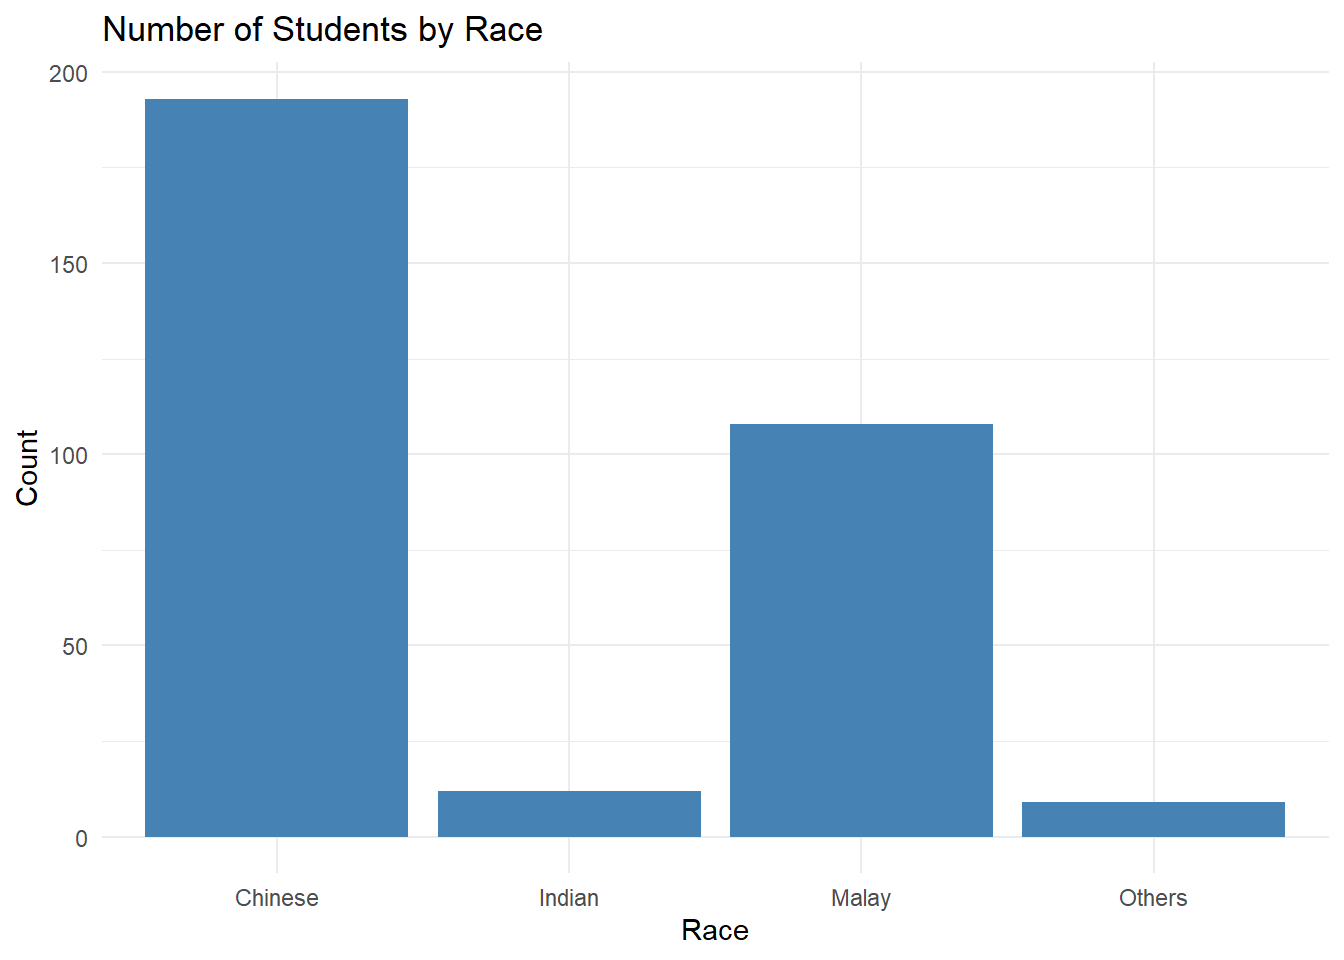
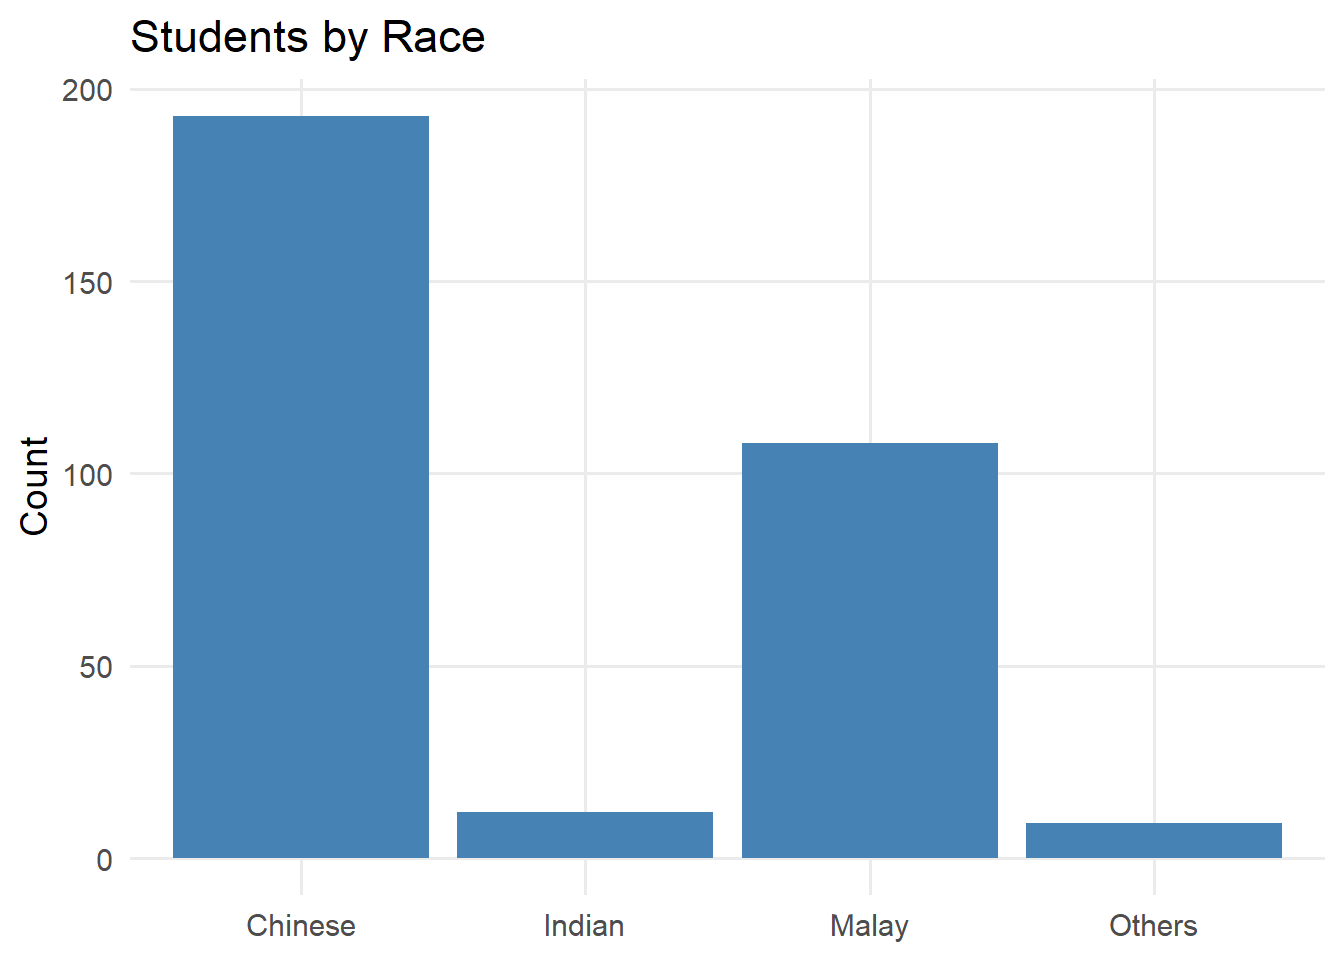
Commit ex1 update

diff --git a/_site/Hands-on_Ex/Hands-on_Ex01/Hands-on_Ex01.html b/_site/Hands-on_Ex/Hands-on_Ex01/Hands-on_Ex01.html
@@ -160,12 +160,9 @@ pre > code.sourceCode > span > a:first-child::before { text-decoration: underlin
     <h2 id="toc-title">On this page</h2>
    
   <ul>
-  <li><a href="#get-started" id="toc-get-started" class="nav-link active" data-scroll-target="#get-started">Get Started</a>
-  <ul class="collapse">
-  <li><a href="#install-and-load-required-r-packages" id="toc-install-and-load-required-r-packages" class="nav-link" data-scroll-target="#install-and-load-required-r-packages">Install and load required R packages</a></li>
-  </ul></li>
-  <li><a href="#import-the-data" id="toc-import-the-data" class="nav-link" data-scroll-target="#import-the-data">Import the data</a></li>
-  <li><a href="#plotting-a-simple-bar-chart" id="toc-plotting-a-simple-bar-chart" class="nav-link" data-scroll-target="#plotting-a-simple-bar-chart">Plotting a simple bar chart</a></li>
+  <li><a href="#get-started" id="toc-get-started" class="nav-link active" data-scroll-target="#get-started">Get Started</a></li>
+  <li><a href="#import-data" id="toc-import-data" class="nav-link" data-scroll-target="#import-data">Import Data</a></li>
+  <li><a href="#visualizations" id="toc-visualizations" class="nav-link" data-scroll-target="#visualizations">Visualizations</a></li>
   </ul>
 </nav>
     </div>
@@ -197,20 +194,25 @@ pre > code.sourceCode > span > a:first-child::before { text-decoration: underlin
 </header>
 
 
+<style>
+.plot-card {
+  background: #fff;
+  border-radius: 8px;
+  box-shadow: 0 2px 5px rgba(0,0,0,0.1);
+  padding: 1rem;
+  margin-bottom: 2rem;
+}
+</style>
 <section id="get-started" class="level2">
 <h2 class="anchored" data-anchor-id="get-started">Get Started</h2>
-<section id="install-and-load-required-r-packages" class="level3">
-<h3 class="anchored" data-anchor-id="install-and-load-required-r-packages">Install and load required R packages</h3>
-<p>We use <code>library(tidyverse)</code> to load the collection of tidyverse packages, which includes <code>readr</code>, <code>ggplot2</code>, and others.</p>
+<p>Install and load required packages:</p>
 <div class="cell">
-<div class="sourceCode cell-code" id="cb1"><pre class="sourceCode r code-with-copy"><code class="sourceCode r"><span id="cb1-1"><a href="#cb1-1" aria-hidden="true" tabindex="-1"></a>pacman<span class="sc">::</span><span class="fu">p_load</span>(tidyverse)</span></code><button title="Copy to Clipboard" class="code-copy-button"><i class="bi"></i></button></pre></div>
+<div class="sourceCode cell-code" id="cb1"><pre class="sourceCode r code-with-copy"><code class="sourceCode r"><span id="cb1-1"><a href="#cb1-1" aria-hidden="true" tabindex="-1"></a>pacman<span class="sc">::</span><span class="fu">p_load</span>(tidyverse, RColorBrewer)</span></code><button title="Copy to Clipboard" class="code-copy-button"><i class="bi"></i></button></pre></div>
 </div>
 <hr>
 </section>
-</section>
-<section id="import-the-data" class="level2">
-<h2 class="anchored" data-anchor-id="import-the-data">Import the data</h2>
-<p>We read the CSV file containing exam data Make sure the file is located in the <code>data/</code> folder.</p>
+<section id="import-data" class="level2">
+<h2 class="anchored" data-anchor-id="import-data">Import Data</h2>
 <div class="cell">
 <div class="sourceCode cell-code" id="cb2"><pre class="sourceCode r code-with-copy"><code class="sourceCode r"><span id="cb2-1"><a href="#cb2-1" aria-hidden="true" tabindex="-1"></a>exam_data <span class="ot">&lt;-</span> <span class="fu">read_csv</span>(<span class="st">"data/Exam_data.csv"</span>)</span></code><button title="Copy to Clipboard" class="code-copy-button"><i class="bi"></i></button></pre></div>
 <div class="cell-output cell-output-stderr">
@@ -236,16 +238,19 @@ i Specify the column types or set `show_col_types = FALSE` to quiet this message
 </div>
 <hr>
 </section>
-<section id="plotting-a-simple-bar-chart" class="level2">
-<h2 class="anchored" data-anchor-id="plotting-a-simple-bar-chart">Plotting a simple bar chart</h2>
-<p>We plot the distribution of the <code>RACE</code> variable using <code>ggplot2</code>.</p>
+<section id="visualizations" class="level2">
+<h2 class="anchored" data-anchor-id="visualizations">Visualizations</h2>
+<p>Below are all the key plots for the exam dataset, each wrapped in a styled card and arranged responsively.</p>
+<div class="columns">
+<div class="column" style="width:50%;">
+<div class="plot-card">
+<p><strong>Bar Chart: Students by Race</strong></p>
 <div class="cell">
-<div class="sourceCode cell-code" id="cb6"><pre class="sourceCode r code-with-copy"><code class="sourceCode r"><span id="cb6-1"><a href="#cb6-1" aria-hidden="true" tabindex="-1"></a><span class="fu">ggplot</span>(<span class="at">data =</span> exam_data, <span class="fu">aes</span>(<span class="at">x =</span> RACE)) <span class="sc">+</span></span>
+<div class="sourceCode cell-code" id="cb6"><pre class="sourceCode r code-with-copy"><code class="sourceCode r"><span id="cb6-1"><a href="#cb6-1" aria-hidden="true" tabindex="-1"></a><span class="fu">ggplot</span>(exam_data, <span class="fu">aes</span>(<span class="at">x =</span> RACE)) <span class="sc">+</span></span>
 <span id="cb6-2"><a href="#cb6-2" aria-hidden="true" tabindex="-1"></a>  <span class="fu">geom_bar</span>(<span class="at">fill =</span> <span class="st">"steelblue"</span>) <span class="sc">+</span></span>
-<span id="cb6-3"><a href="#cb6-3" aria-hidden="true" tabindex="-1"></a>  <span class="fu">theme_minimal</span>() <span class="sc">+</span></span>
-<span id="cb6-4"><a href="#cb6-4" aria-hidden="true" tabindex="-1"></a>  <span class="fu">labs</span>(<span class="at">title =</span> <span class="st">"Number of Students by Race"</span>,</span>
-<span id="cb6-5"><a href="#cb6-5" aria-hidden="true" tabindex="-1"></a>       <span class="at">x =</span> <span class="st">"Race"</span>,</span>
-<span id="cb6-6"><a href="#cb6-6" aria-hidden="true" tabindex="-1"></a>       <span class="at">y =</span> <span class="st">"Count"</span>)</span></code><button title="Copy to Clipboard" class="code-copy-button"><i class="bi"></i></button></pre></div>
+<span id="cb6-3"><a href="#cb6-3" aria-hidden="true" tabindex="-1"></a>  <span class="fu">theme_minimal</span>(<span class="at">base_size =</span> <span class="dv">14</span>) <span class="sc">+</span></span>
+<span id="cb6-4"><a href="#cb6-4" aria-hidden="true" tabindex="-1"></a>  <span class="fu">labs</span>(<span class="at">title =</span> <span class="st">"Students by Race"</span>, <span class="at">x =</span> <span class="cn">NULL</span>, <span class="at">y =</span> <span class="st">"Count"</span>) <span class="sc">+</span></span>
+<span id="cb6-5"><a href="#cb6-5" aria-hidden="true" tabindex="-1"></a>  <span class="fu">theme</span>(<span class="at">panel.grid.minor =</span> <span class="fu">element_blank</span>())</span></code><button title="Copy to Clipboard" class="code-copy-button"><i class="bi"></i></button></pre></div>
 <div class="cell-output-display">
 <div>
 <figure class="figure">
@@ -254,6 +259,111 @@ i Specify the column types or set `show_col_types = FALSE` to quiet this message
 </div>
 </div>
 </div>
+</div>
+</div><div class="column" style="width:50%;">
+<div class="plot-card">
+<p><strong>Score Distributions by Subject</strong></p>
+<div class="cell">
+<div class="sourceCode cell-code" id="cb7"><pre class="sourceCode r code-with-copy"><code class="sourceCode r"><span id="cb7-1"><a href="#cb7-1" aria-hidden="true" tabindex="-1"></a><span class="co"># Reshape to long format for faceted histograms</span></span>
+<span id="cb7-2"><a href="#cb7-2" aria-hidden="true" tabindex="-1"></a>exam_long <span class="ot">&lt;-</span> exam_data <span class="sc">%&gt;%</span></span>
+<span id="cb7-3"><a href="#cb7-3" aria-hidden="true" tabindex="-1"></a>  <span class="fu">pivot_longer</span>(<span class="at">cols =</span> <span class="fu">c</span>(ENGLISH, MATHS, SCIENCE), <span class="at">names_to =</span> <span class="st">"Subject"</span>, <span class="at">values_to =</span> <span class="st">"Score"</span>)</span>
+<span id="cb7-4"><a href="#cb7-4" aria-hidden="true" tabindex="-1"></a></span>
+<span id="cb7-5"><a href="#cb7-5" aria-hidden="true" tabindex="-1"></a><span class="fu">ggplot</span>(exam_long, <span class="fu">aes</span>(<span class="at">x =</span> Score, <span class="at">fill =</span> Subject)) <span class="sc">+</span></span>
+<span id="cb7-6"><a href="#cb7-6" aria-hidden="true" tabindex="-1"></a>  <span class="fu">geom_histogram</span>(<span class="at">bins =</span> <span class="dv">20</span>, <span class="at">color =</span> <span class="st">"white"</span>, <span class="at">alpha =</span> <span class="fl">0.7</span>) <span class="sc">+</span></span>
+<span id="cb7-7"><a href="#cb7-7" aria-hidden="true" tabindex="-1"></a>  <span class="fu">facet_wrap</span>(<span class="sc">~</span> Subject, <span class="at">scales =</span> <span class="st">"free"</span>) <span class="sc">+</span></span>
+<span id="cb7-8"><a href="#cb7-8" aria-hidden="true" tabindex="-1"></a>  <span class="fu">theme_minimal</span>(<span class="at">base_size =</span> <span class="dv">14</span>) <span class="sc">+</span></span>
+<span id="cb7-9"><a href="#cb7-9" aria-hidden="true" tabindex="-1"></a>  <span class="fu">labs</span>(<span class="at">title =</span> <span class="st">"Score Distributions by Subject"</span>, <span class="at">x =</span> <span class="st">"Score"</span>, <span class="at">y =</span> <span class="st">"Frequency"</span>) <span class="sc">+</span></span>
+<span id="cb7-10"><a href="#cb7-10" aria-hidden="true" tabindex="-1"></a>  <span class="fu">theme</span>(<span class="at">legend.position =</span> <span class="st">"none"</span>, <span class="at">panel.grid.minor =</span> <span class="fu">element_blank</span>())</span></code><button title="Copy to Clipboard" class="code-copy-button"><i class="bi"></i></button></pre></div>
+<div class="cell-output-display">
+<div>
+<figure class="figure">
+<p><img src="Hands-on_Ex01_files/figure-html/unnamed-chunk-8-1.png" class="img-fluid figure-img" width="672"></p>
+</figure>
+</div>
+</div>
+</div>
+</div>
+</div>
+</div>
+<div class="columns">
+<div class="column" style="width:50%;">
+<div class="plot-card">
+<p><strong>Scatterplot: Maths vs Science by Gender</strong></p>
+<div class="cell">
+<div class="sourceCode cell-code" id="cb8"><pre class="sourceCode r code-with-copy"><code class="sourceCode r"><span id="cb8-1"><a href="#cb8-1" aria-hidden="true" tabindex="-1"></a><span class="fu">ggplot</span>(exam_data, <span class="fu">aes</span>(<span class="at">x =</span> MATHS, <span class="at">y =</span> SCIENCE, <span class="at">color =</span> GENDER)) <span class="sc">+</span></span>
+<span id="cb8-2"><a href="#cb8-2" aria-hidden="true" tabindex="-1"></a>  <span class="fu">geom_point</span>(<span class="at">alpha =</span> <span class="fl">0.8</span>, <span class="at">size =</span> <span class="dv">2</span>) <span class="sc">+</span></span>
+<span id="cb8-3"><a href="#cb8-3" aria-hidden="true" tabindex="-1"></a>  <span class="fu">geom_smooth</span>(<span class="at">method =</span> <span class="st">"lm"</span>, <span class="at">se =</span> <span class="cn">TRUE</span>, <span class="at">linetype =</span> <span class="st">"dashed"</span>) <span class="sc">+</span></span>
+<span id="cb8-4"><a href="#cb8-4" aria-hidden="true" tabindex="-1"></a>  <span class="fu">scale_color_brewer</span>(<span class="at">palette =</span> <span class="st">"Set1"</span>) <span class="sc">+</span></span>
+<span id="cb8-5"><a href="#cb8-5" aria-hidden="true" tabindex="-1"></a>  <span class="fu">theme_minimal</span>(<span class="at">base_size =</span> <span class="dv">14</span>) <span class="sc">+</span></span>
+<span id="cb8-6"><a href="#cb8-6" aria-hidden="true" tabindex="-1"></a>  <span class="fu">labs</span>(</span>
+<span id="cb8-7"><a href="#cb8-7" aria-hidden="true" tabindex="-1"></a>    <span class="at">title =</span> <span class="st">"Maths vs Science Scores by Gender"</span>,</span>
+<span id="cb8-8"><a href="#cb8-8" aria-hidden="true" tabindex="-1"></a>    <span class="at">subtitle =</span> <span class="st">"Scatterplot with linear trend lines"</span>,</span>
+<span id="cb8-9"><a href="#cb8-9" aria-hidden="true" tabindex="-1"></a>    <span class="at">x =</span> <span class="st">"Maths Score"</span>,</span>
+<span id="cb8-10"><a href="#cb8-10" aria-hidden="true" tabindex="-1"></a>    <span class="at">y =</span> <span class="st">"Science Score"</span></span>
+<span id="cb8-11"><a href="#cb8-11" aria-hidden="true" tabindex="-1"></a>  ) <span class="sc">+</span></span>
+<span id="cb8-12"><a href="#cb8-12" aria-hidden="true" tabindex="-1"></a>  <span class="fu">theme</span>(<span class="at">legend.position =</span> <span class="st">"bottom"</span>, <span class="at">panel.grid.minor =</span> <span class="fu">element_blank</span>())</span></code><button title="Copy to Clipboard" class="code-copy-button"><i class="bi"></i></button></pre></div>
+<div class="cell-output cell-output-stderr">
+<pre><code>`geom_smooth()` using formula 'y ~ x'</code></pre>
+</div>
+<div class="cell-output-display">
+<div>
+<figure class="figure">
+<p><img src="Hands-on_Ex01_files/figure-html/unnamed-chunk-10-1.png" class="img-fluid figure-img" width="672"></p>
+</figure>
+</div>
+</div>
+</div>
+</div>
+</div><div class="column" style="width:50%;">
+<div class="plot-card">
+<p><strong>Boxplot: Maths Scores by Race</strong></p>
+<div class="cell">
+<div class="sourceCode cell-code" id="cb10"><pre class="sourceCode r code-with-copy"><code class="sourceCode r"><span id="cb10-1"><a href="#cb10-1" aria-hidden="true" tabindex="-1"></a><span class="fu">ggplot</span>(exam_data, <span class="fu">aes</span>(<span class="at">x =</span> RACE, <span class="at">y =</span> MATHS, <span class="at">fill =</span> RACE)) <span class="sc">+</span></span>
+<span id="cb10-2"><a href="#cb10-2" aria-hidden="true" tabindex="-1"></a>  <span class="fu">geom_boxplot</span>(<span class="at">outlier.shape =</span> <span class="cn">NA</span>, <span class="at">alpha =</span> <span class="fl">0.6</span>) <span class="sc">+</span></span>
+<span id="cb10-3"><a href="#cb10-3" aria-hidden="true" tabindex="-1"></a>  <span class="fu">geom_jitter</span>(<span class="at">width =</span> <span class="fl">0.2</span>, <span class="at">alpha =</span> <span class="fl">0.5</span>, <span class="at">size =</span> <span class="dv">1</span>) <span class="sc">+</span></span>
+<span id="cb10-4"><a href="#cb10-4" aria-hidden="true" tabindex="-1"></a>  <span class="fu">scale_fill_brewer</span>(<span class="at">palette =</span> <span class="st">"Pastel2"</span>) <span class="sc">+</span></span>
+<span id="cb10-5"><a href="#cb10-5" aria-hidden="true" tabindex="-1"></a>  <span class="fu">theme_minimal</span>(<span class="at">base_size =</span> <span class="dv">14</span>) <span class="sc">+</span></span>
+<span id="cb10-6"><a href="#cb10-6" aria-hidden="true" tabindex="-1"></a>  <span class="fu">labs</span>(</span>
+<span id="cb10-7"><a href="#cb10-7" aria-hidden="true" tabindex="-1"></a>    <span class="at">title =</span> <span class="st">"Maths Scores by Race"</span>,</span>
+<span id="cb10-8"><a href="#cb10-8" aria-hidden="true" tabindex="-1"></a>    <span class="at">subtitle =</span> <span class="st">"Boxplot with overlaid points"</span>,</span>
+<span id="cb10-9"><a href="#cb10-9" aria-hidden="true" tabindex="-1"></a>    <span class="at">x =</span> <span class="cn">NULL</span>,</span>
+<span id="cb10-10"><a href="#cb10-10" aria-hidden="true" tabindex="-1"></a>    <span class="at">y =</span> <span class="st">"Maths Score"</span></span>
+<span id="cb10-11"><a href="#cb10-11" aria-hidden="true" tabindex="-1"></a>  ) <span class="sc">+</span></span>
+<span id="cb10-12"><a href="#cb10-12" aria-hidden="true" tabindex="-1"></a>  <span class="fu">theme</span>(<span class="at">axis.text.x =</span> <span class="fu">element_text</span>(<span class="at">angle =</span> <span class="dv">45</span>, <span class="at">hjust =</span> <span class="dv">1</span>), <span class="at">legend.position =</span> <span class="st">"none"</span>)</span></code><button title="Copy to Clipboard" class="code-copy-button"><i class="bi"></i></button></pre></div>
+<div class="cell-output-display">
+<div>
+<figure class="figure">
+<p><img src="Hands-on_Ex01_files/figure-html/unnamed-chunk-12-1.png" class="img-fluid figure-img" width="672"></p>
+</figure>
+</div>
+</div>
+</div>
+</div>
+</div>
+</div>
+<div class="columns">
+<div class="column" style="width:50%;">
+<div class="plot-card">
+<p><strong>Density Plot: Science Scores</strong></p>
+<div class="cell">
+<div class="sourceCode cell-code" id="cb11"><pre class="sourceCode r code-with-copy"><code class="sourceCode r"><span id="cb11-1"><a href="#cb11-1" aria-hidden="true" tabindex="-1"></a><span class="fu">ggplot</span>(exam_data, <span class="fu">aes</span>(<span class="at">x =</span> SCIENCE)) <span class="sc">+</span></span>
+<span id="cb11-2"><a href="#cb11-2" aria-hidden="true" tabindex="-1"></a>  <span class="fu">geom_density</span>(<span class="at">fill =</span> <span class="st">"orchid"</span>, <span class="at">alpha =</span> <span class="fl">0.6</span>) <span class="sc">+</span></span>
+<span id="cb11-3"><a href="#cb11-3" aria-hidden="true" tabindex="-1"></a>  <span class="fu">theme_minimal</span>(<span class="at">base_size =</span> <span class="dv">14</span>) <span class="sc">+</span></span>
+<span id="cb11-4"><a href="#cb11-4" aria-hidden="true" tabindex="-1"></a>  <span class="fu">labs</span>(<span class="at">title =</span> <span class="st">"Science Score Density"</span>, <span class="at">x =</span> <span class="st">"Science Score"</span>, <span class="at">y =</span> <span class="st">"Density"</span>) <span class="sc">+</span></span>
+<span id="cb11-5"><a href="#cb11-5" aria-hidden="true" tabindex="-1"></a>  <span class="fu">theme</span>(<span class="at">panel.grid.minor =</span> <span class="fu">element_blank</span>())</span></code><button title="Copy to Clipboard" class="code-copy-button"><i class="bi"></i></button></pre></div>
+<div class="cell-output-display">
+<div>
+<figure class="figure">
+<p><img src="Hands-on_Ex01_files/figure-html/unnamed-chunk-14-1.png" class="img-fluid figure-img" width="672"></p>
+</figure>
+</div>
+</div>
+</div>
+</div>
+</div>
+</div>
+<hr>
+<p>© 2025 Hao Liu</p>
 
 
 </section>
